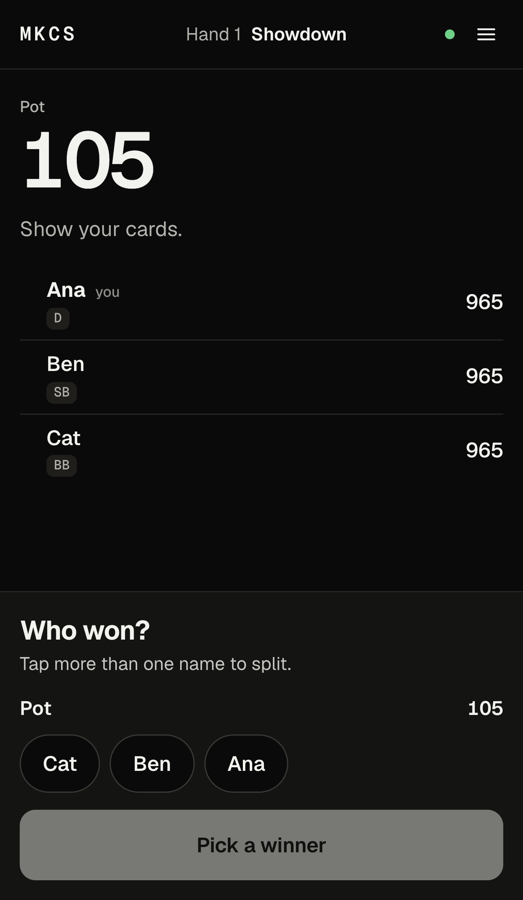
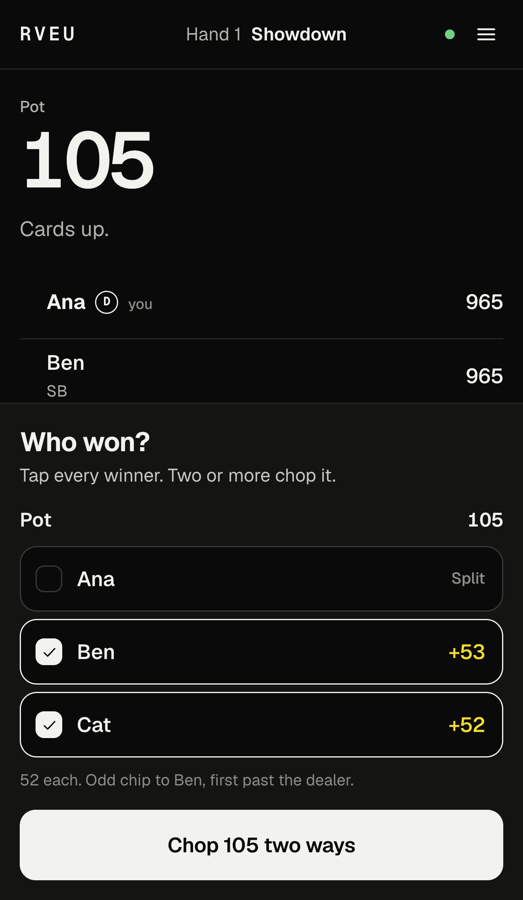
Document chopping in the README

diff --git a/README.md b/README.md
@@ -15,7 +15,7 @@
 <p>
   <img src="docs/your-turn-light.png" width="240" alt="Your turn: the action bar floods yellow with Fold, Call and Raise" />
   <img src="docs/waiting-dark.png" width="240" alt="Dark mode while waiting: the pot, a Deal the flop prompt and the seat list" />
-  <img src="docs/showdown-dark.png" width="240" alt="Showdown: tap who won each pot" />
+  <img src="docs/showdown-dark.png" width="240" alt="Showdown: two winners ticked, each share shown before paying out" />
 </p>
 
 ---
@@ -30,7 +30,8 @@ Before writing a line, we read the code of 22 open source chip trackers and put 
 
 - **One phone per player, zero accounts.** Start a table, share a four-letter code, QR code or link. Names are the only sign up.
 - **Real no-limit hold'em rules.** Blinds post themselves, turn order is enforced, and the big blind keeps its option. Minimum raises follow the last full raise, and short all-ins only reopen betting when they add up to a full raise (TDA rule 47).
-- **Side pots without arguments.** Pots are built in layers from what each player put in, uncalled chips go back automatically, and folded chips stay in as dead money. Split pots pay the odd chip clockwise from the button.
+- **Side pots without arguments.** Pots are built in layers from what each player put in, uncalled chips go back automatically, and folded chips stay in as dead money.
+- **Chops take one tap per winner.** Same hand as somebody else? Tap both names. Every pot lists its players with a checkbox, each share appears the moment you pick, and the odd chip goes clockwise from the dealer with a line saying so.
 - **Your turn is impossible to miss.** The action bar floods yellow, a soft two-note chime plays, and Android phones buzz. The screen stays awake while a table is open.
 - **Deal prompts for the dealer.** "Deal the flop", "Run out the board", "Who won?". The app tells the table what the cards should be doing.
 - **Built for real tables.** Anyone can undo, seats can be added for players without a phone, and anyone can act for someone who is away. A phone can hand its seat to a new device (with the table's approval), and dropped connections reconnect by themselves.
@@ -111,6 +112,7 @@ FUZZ_GAMES=25000 npm run test:unit   # the long fuzz run
 - **Integration tests** cover stale versions, concurrent `next` and `undo`, seat claims, kicks, host handoff, oversized and malformed messages, rate limits and room expiry.
 - **End-to-end tests** cover:
   - a complete hand across three phones
+  - two players chopping a pot, shares previewed before the payout
   - a real side pot
   - acting for a seat without a phone, plus undo
   - moving a seat to a new device
